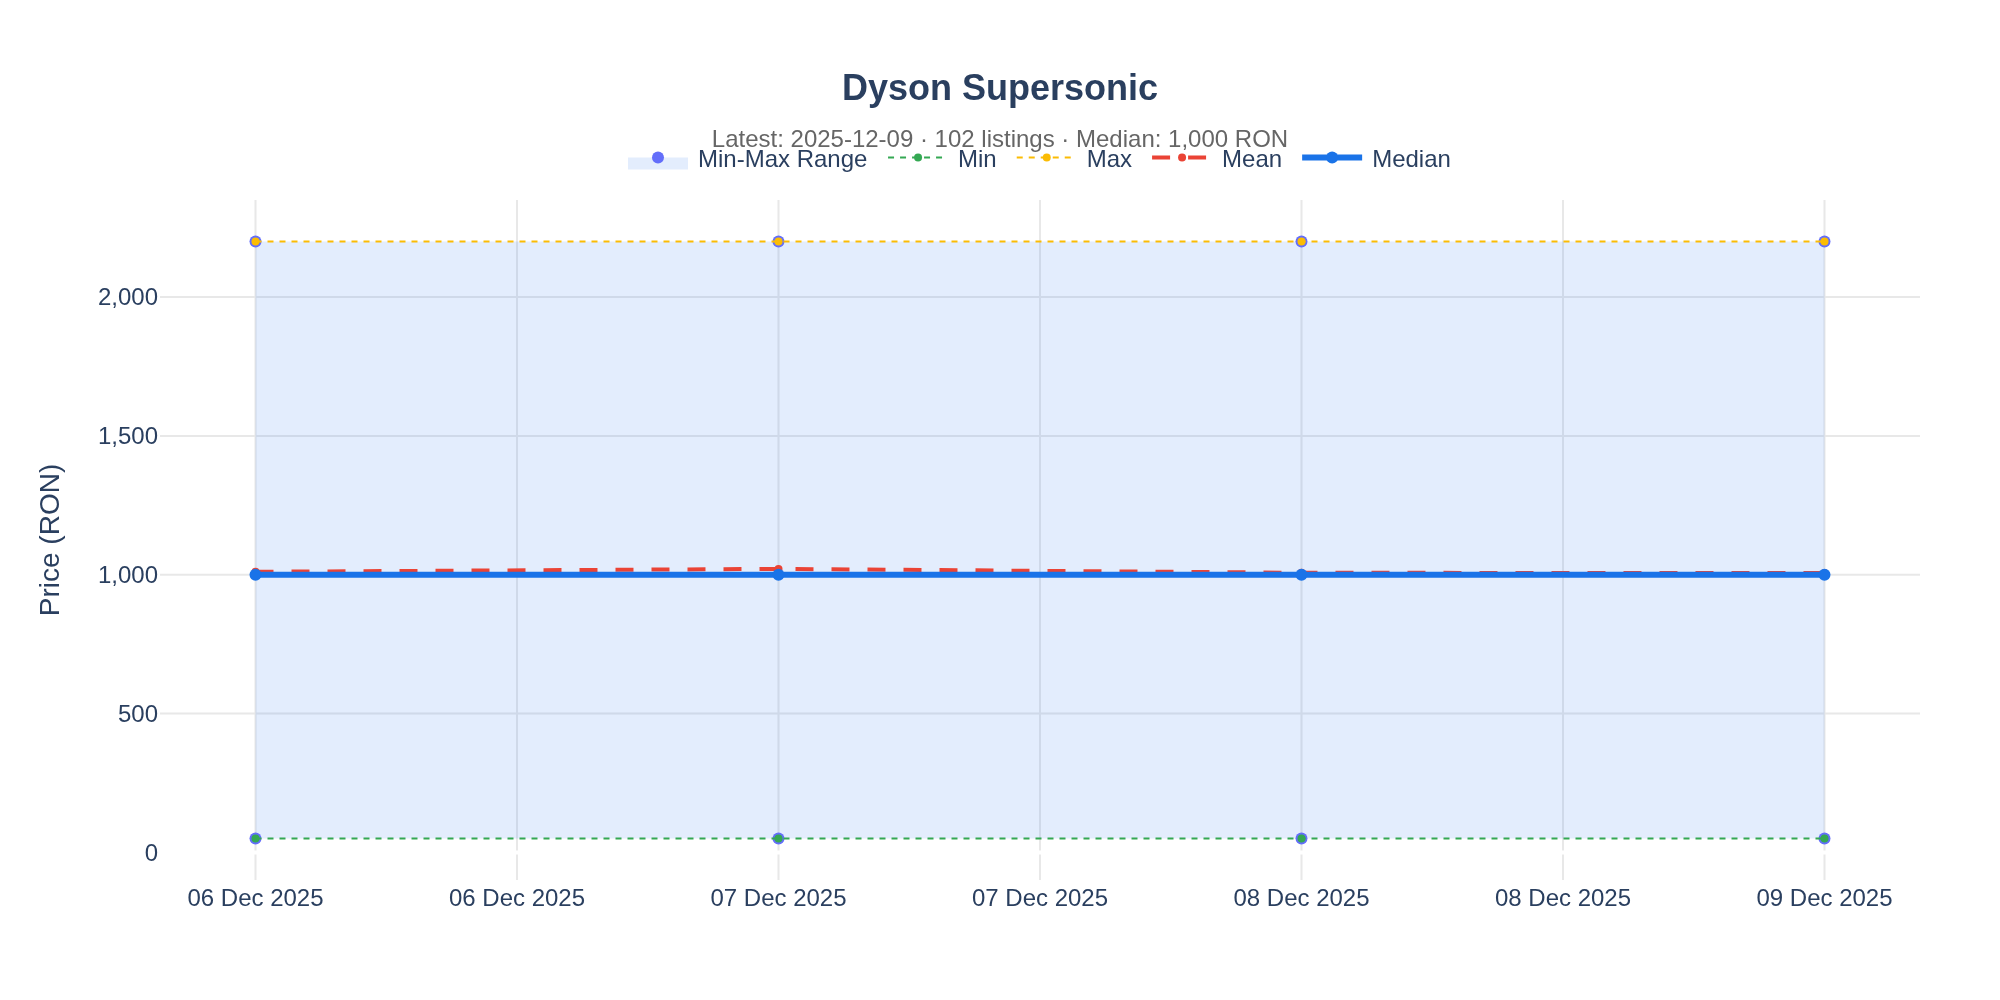
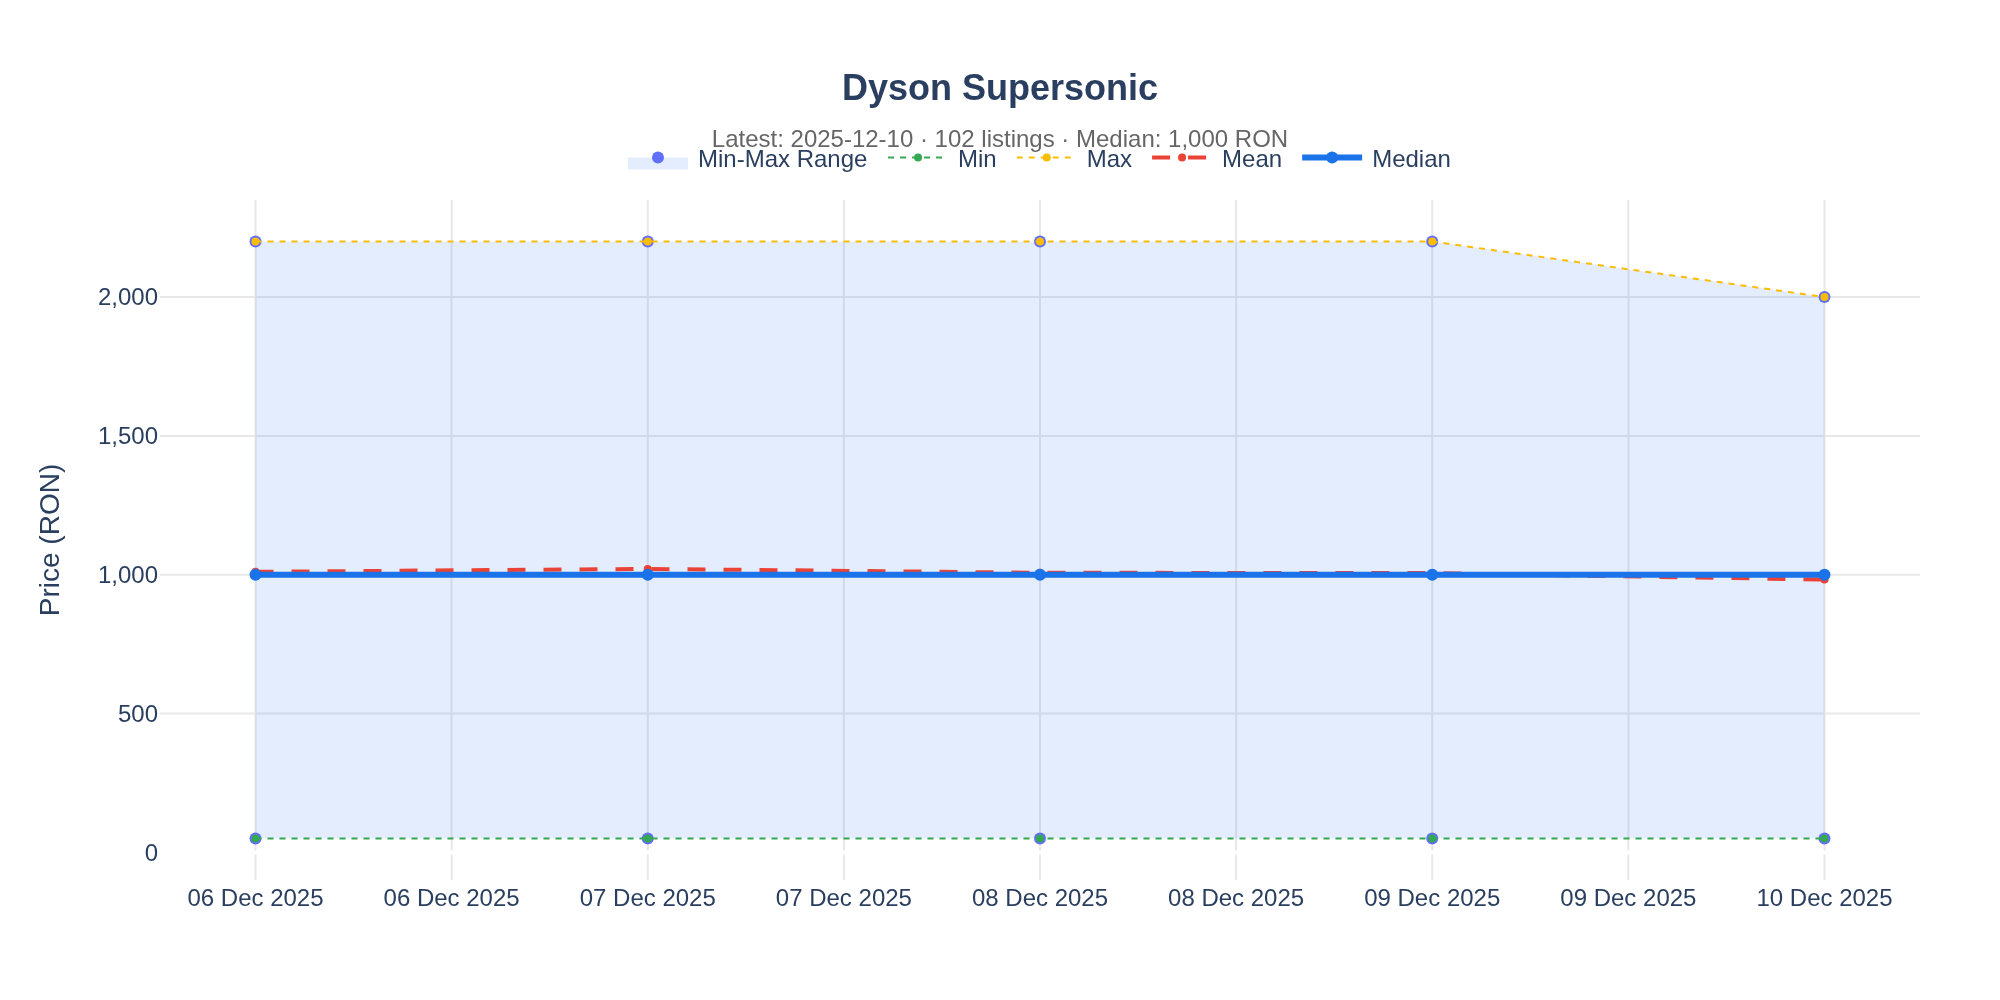
📊 Update: 2025-12-10

diff --git a/README.md b/README.md
@@ -27,12 +27,12 @@ Daily price tracking for products on OLX.ro as a proxy for economic indicators.
 
 | Metric | Value |
 |--------|-------|
-| Listings | 41 |
+| Listings | 43 |
 | Min | 250 RON |
 | Max | 1,400 RON |
-| Median | 900 RON |
-| Average | 846 RON |
-| Last Update | 2025-12-09 |
+| Median | 850 RON |
+| Average | 847 RON |
+| Last Update | 2025-12-10 |
 
 ---
 
@@ -44,10 +44,10 @@ Daily price tracking for products on OLX.ro as a proxy for economic indicators.
 |--------|-------|
 | Listings | 102 |
 | Min | 50 RON |
-| Max | 2,200 RON |
+| Max | 2,000 RON |
 | Median | 1,000 RON |
-| Average | 1,005 RON |
-| Last Update | 2025-12-09 |
+| Average | 982 RON |
+| Last Update | 2025-12-10 |
 
 ---
 
